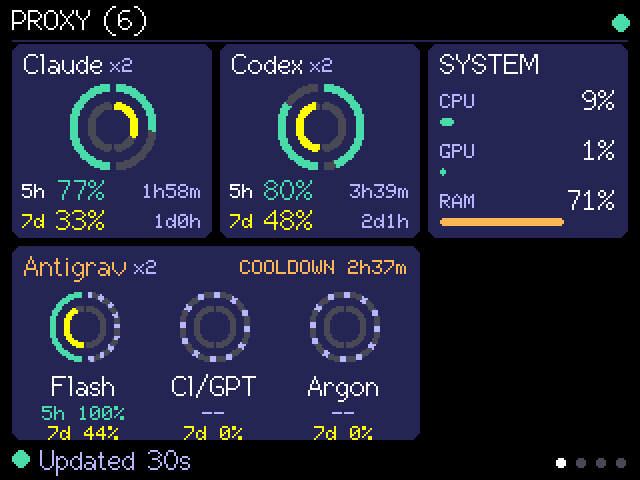
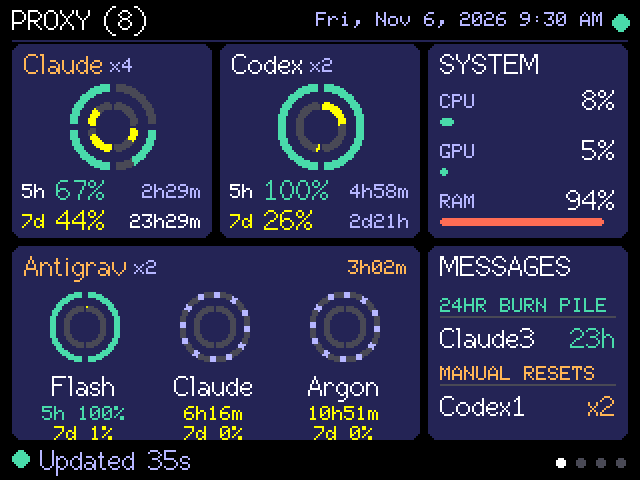
Release v1.16.0: header clock and clearer Messages card

diff --git a/firmware/AIUsageMonitor/config.h b/firmware/AIUsageMonitor/config.h
@@ -9,7 +9,7 @@
 // Board: ESP32-2432S024C (ESP32-D0WD-V3, ILI9341 240x320 SPI, CH340 USB-serial)
 // ============================================================================
 
-#define FW_VERSION "1.15.0"
+#define FW_VERSION "1.16.0"
 
 // ---------------------------------------------------------------------------
 // DISPLAY_ROTATION: the one setting to change when you remount the screen.

diff --git a/docs/UI.md b/docs/UI.md
@@ -11,7 +11,7 @@ Tap and release anywhere to cycle. Hold anywhere for 0.7 seconds (`UI_HOLD_MS`) 
 Default order: Proxy, Console, Details, Companion, Images.
 
 Proxy rings divide clockwise from the top into equal sectors in anonymous account order, including each pool in a multi-pool tile. Outer and inner sectors show that account's shorter and longer windows. Dashed sectors are unknown; a faint empty sector is known zero. Percentages and countdowns remain the group average of known readings and the earliest future reset. Legacy payloads, groups over eight accounts, and groups whose detail was omitted to fit the serial limit use the aggregate ring.
-- **Proxy (default home):** one tile per CPAMC proxy group in the Console grid layout (3x2 landscape, 2x3 portrait), fed by the `proxy` serial line (see [PROTOCOL.md](PROTOCOL.md)). Header `PROXY (n)` (active accounts), `xN` beside each group name. Outer ring is the shorter window, inner the longer; each line takes its label from the window, and a missing window shows `--`. Unknown percent is the dashed ring; a cooldown is a 0% ring with the countdown. A multi-pool group (`ly:"m"`) is double-wide with one mini ring pair per pool (Antigrav: Flash, Claude, Argon). Tiles are placed first-fit, then the System card (CPU/GPU/RAM) and the Messages card take the next free cells. Messages lists **24HR BURN PILE** (accounts with quota left in their longest window, 7d or 30d, resetting within 24 h, soonest first; "All clear" when none) and **MANUAL RESETS** (accounts with banked resets from `rc`, e.g. `Codex1 x2`). A red warning triangle marks a tile with `a` and the header with `attn`. When the proxy is down (`up:0`) or no line arrived for 90 s, the last values dim under a `PROXY DOWN` overlay with a red status dot. Profiles list `proxy` in `pages`; the long-press home is Proxy when the profile has it, else Console. Console stays selectable.
+- **Proxy (default home):** one tile per CPAMC proxy group in the Console grid layout (3x2 landscape, 2x3 portrait), fed by the `proxy` serial line (see [PROTOCOL.md](PROTOCOL.md)). Header `PROXY (n)` (active accounts) with the local date and time at the top right beside the status dot (from `ts` and `tz`), `xN` beside each group name. Outer ring is the shorter window, inner the longer; each line takes its label from the window, and a missing window shows `--`. Unknown percent is the dashed ring; a cooldown is a 0% ring with the countdown. A multi-pool group (`ly:"m"`) is double-wide with one mini ring pair per pool (Antigrav: Flash, Claude, Argon). Tiles are placed first-fit, then the System card (CPU/GPU/RAM) and the Messages card take the next free cells. Messages uses large rows (name left, countdown right, with the percent left shown when it fits), colour-coded headings (green burn pile, amber resets) and evenly spread spacing. It lists **24HR BURN PILE** (accounts with quota left in their longest window, 7d or 30d, resetting within 24 h, soonest first; "All clear" when none) and **MANUAL RESETS** (accounts with banked resets from `rc`, e.g. `Codex1 x2`). A red warning triangle marks a tile with `a` and the header with `attn`. When the proxy is down (`up:0`) or no line arrived for 90 s, the last values dim under a `PROXY DOWN` overlay with a red status dot. Profiles list `proxy` in `pages`; the long-press home is Proxy when the profile has it, else Console. Console stays selectable.
 - **Console (default):** three fixed client rows — `CLAUDE A`, `CLAUDE B`, `CODEX` — mapped by account identity, so service reordering does not move rows. `A`/`B` and `Claude A`/`Claude B` are accepted alongside `CL1`/`CL2`; other providers (Antigrav, Argon, Gemini, GPT) never fall into a Claude row. The header groups `AI USAGE (3 CLIENTS)` at left and aligns **Session** (`5h`) and **Weekly** (`7d`) headings above their ring columns. Each ring centers exact percent remaining and eases clockwise from 12 o'clock. Its large, bright caption shows time until reset, `due` after a deadline, or `--` when unavailable. The data area beneath provider titles is intentionally empty for future use. Unknown quotas show `--`, distinct from empty 0% or full 100% rings.
 - **Details:** the original activity, peak, quota, token, and cost dashboard, unchanged.
 - **Companion:** loops between idle and happy expressions using existing drawing primitives. Renders without quota data.

diff --git a/docs/PROTOCOL.md b/docs/PROTOCOL.md
@@ -144,7 +144,7 @@ A separate `{"t":"proxy",...}` line about every 30 s, parsed like `sys` (no `@AC
 
 `up` proxy reachable, `age` seconds since the last good poll, `attn` global danger flag; per group `n` name, `c` active accounts, `a` danger flag, `ly` `r` (normal tile) or `m` (double-wide, one mini ring pair per pool), `p` pools (max 3) each with `w` windows (max 2; the first is the shorter and draws the outer ring). `r` is percent **remaining** 0-100 (-1 unknown), `z` the next reset epoch (0 none). At most 6 groups.
 
-`ts` is an optional addition to the contract: the sender's current epoch. The ESP32 has no clock, so reset countdowns (`z - now`) show `--` unless `ts` is present.
+`ts` is an optional addition to the contract: the sender's current epoch. The ESP32 has no clock, so reset countdowns (`z - now`) show `--` unless `ts` is present. `tz` (optional, seconds) is the sender's local UTC offset including daylight saving; with `ts` it drives the header date and time (`Fri, Nov 6, 2026 9:27 AM`). Without `ts` the header clock is hidden; without `tz` it shows UTC.
 
 Each window may include `q`, an array of `[remaining, reset_epoch]` pairs in the same anonymous account order across all windows and pools in a group. The first element corresponds to account 1, clockwise from the top; `-1` is unknown and reset `0` is unknown. Order follows CPAMC's opaque auth index and can change if accounts are added, removed, or reidentified. No identifiers are sent. `r` averages known values and `z` is the earliest future reset; neither implies a refill after a deadline. At most eight accounts have sector detail. To stay within the 4095-byte line limit the service may omit `q` for whole groups, starting at the end; firmware then renders the aggregate. Old payloads without `q` remain valid and older firmware ignores it.
 

diff --git a/HANDOFF.md b/HANDOFF.md
@@ -21,7 +21,10 @@
 - Fixed: `git filter-repo --mailmap` rewrite of remote branches and tags; force-pushed `main` (`ac27eb6`), v1.14.1, v1.15.0, v1.15.1. All main commits now use `3210164+zdhoward@users.noreply.github.com`. Global CLAUDE.md/AGENTS.md/GEMINI.md now forbid overriding commit identity; synced.
 - Caution: local T3 worktree branches still hold pre-rewrite history; rebase onto new `main` before merging or pushing any of them.
 
-# Current handoff — v1.15.1 patch (2026-11-03)
+# Current handoff — v1.16.0 (2026-11-06)
+- v1.16.0 released: Proxy header clock (`ts` + new `tz`), redesigned Messages card. Firmware 1.16.0 flashed to COM6, service restarted. Open: manual-reset expiry dates have no known data source (counts only); no test covers `tz`. Tests deferred.
+
+# Previous handoff — v1.15.1 patch (2026-11-03)
 - v1.15.1 released (service-only): 5h forced to 0% left when 7d exhausted (tiles + proxy rings), Antigravity earliest-reset fix. 51 tests pass, service restarted, ESP32 acking. No open PRs. Next: owner visually confirms the Codex ring on the device; firmware still 1.15.0.
 
 - Owner authorized public GitHub release and accepted the installed account-sector spacing. Release target is `v1.15.0` on `main`; release URL: https://github.com/zdhoward/AIUsageMonitor/releases/tag/v1.15.0. No open PRs at wrap-up.

diff --git a/docs/RELEASE_1.16.0.md b/docs/RELEASE_1.16.0.md
@@ -1,0 +1,14 @@
+# v1.16.0 — Header clock and a clearer Messages card
+
+Firmware and service both change; reflash the display and restart the service.
+
+- The Proxy header shows the local date and time (`Fri, Nov 6, 2026 9:30 AM`) beside the status dot. The service now sends `tz`, its local UTC offset, with each proxy line, so daylight saving is followed. The clock hides until the first proxy line arrives.
+- The Messages card is easier to read from a distance: larger rows, colour-coded headings, and leftover height spread evenly. The small percent-left figure appears only when the account name still fits.
+- Manual-reset expiry dates are not shown. The Codex usage API and T3's cache report only a count of banked resets, so the card shows the count.
+
+![Proxy Home with the header clock and Messages card](img/display-proxy.png)
+
+## Verification
+
+- Production build (45% flash), hash-verified USB upload to COM6, service restarted, framebuffer capture inspected (`docs/img/display-proxy.png`).
+- Automated tests were not run (deferred to the owner's testing phase). No test covers the new `tz` field yet.

diff --git a/README.md b/README.md
@@ -8,7 +8,7 @@ A small, always-visible AI usage dashboard for your desk. An ESP32 touchscreen s
 
 Built to sit beneath a monitor and answer a quick question: how much allowance is left, and when does it reset?
 
-The [v1.15.0 release](docs/RELEASE_1.15.0.md) adds the CLIProxyAPI Console proxy Home view with live per-account quota sectors, provider totals and reset countdowns. Each account occupies an equal section of the session and weekly rings, with wider gaps between sections. Successful current probes clear stale account warnings.
+The [v1.16.0 release](docs/RELEASE_1.16.0.md) adds a local date and time to the Proxy header and a clearer, larger Messages card (24HR BURN PILE and MANUAL RESETS). It builds on the [v1.15.0 Proxy Home](docs/RELEASE_1.15.0.md): live per-account quota sectors, provider totals and reset countdowns, with each account in an equal section of the session and weekly rings.
 
 ![Proxy Home with two accounts per provider and segmented quota rings](docs/img/display-proxy.png)
 

diff --git a/docs/PROJECT_LOG.md b/docs/PROJECT_LOG.md
@@ -1,5 +1,9 @@
 # Project log
 
+## 2026-11-06: v1.16.0 release
+
+- Messages card UI pass (large rows, colour headings, even spacing). Proxy header now shows local date and time from `ts` plus a new `tz` offset sent by the service. Manual-reset expiry dates are unavailable from any source we can read (Codex `wham/usage` and T3's cache give counts only). Released as v1.16.0; tests deferred.
+
 ## 2026-11-03: Proxy Messages card
 
 - Added MESSAGES card (24HR BURN PILE calls to action, MANUAL RESETS from Codex banked reset credits). Owner trimmed it to calls to action only; reset dates are unavailable from the API, so counts only. Tests deferred.
